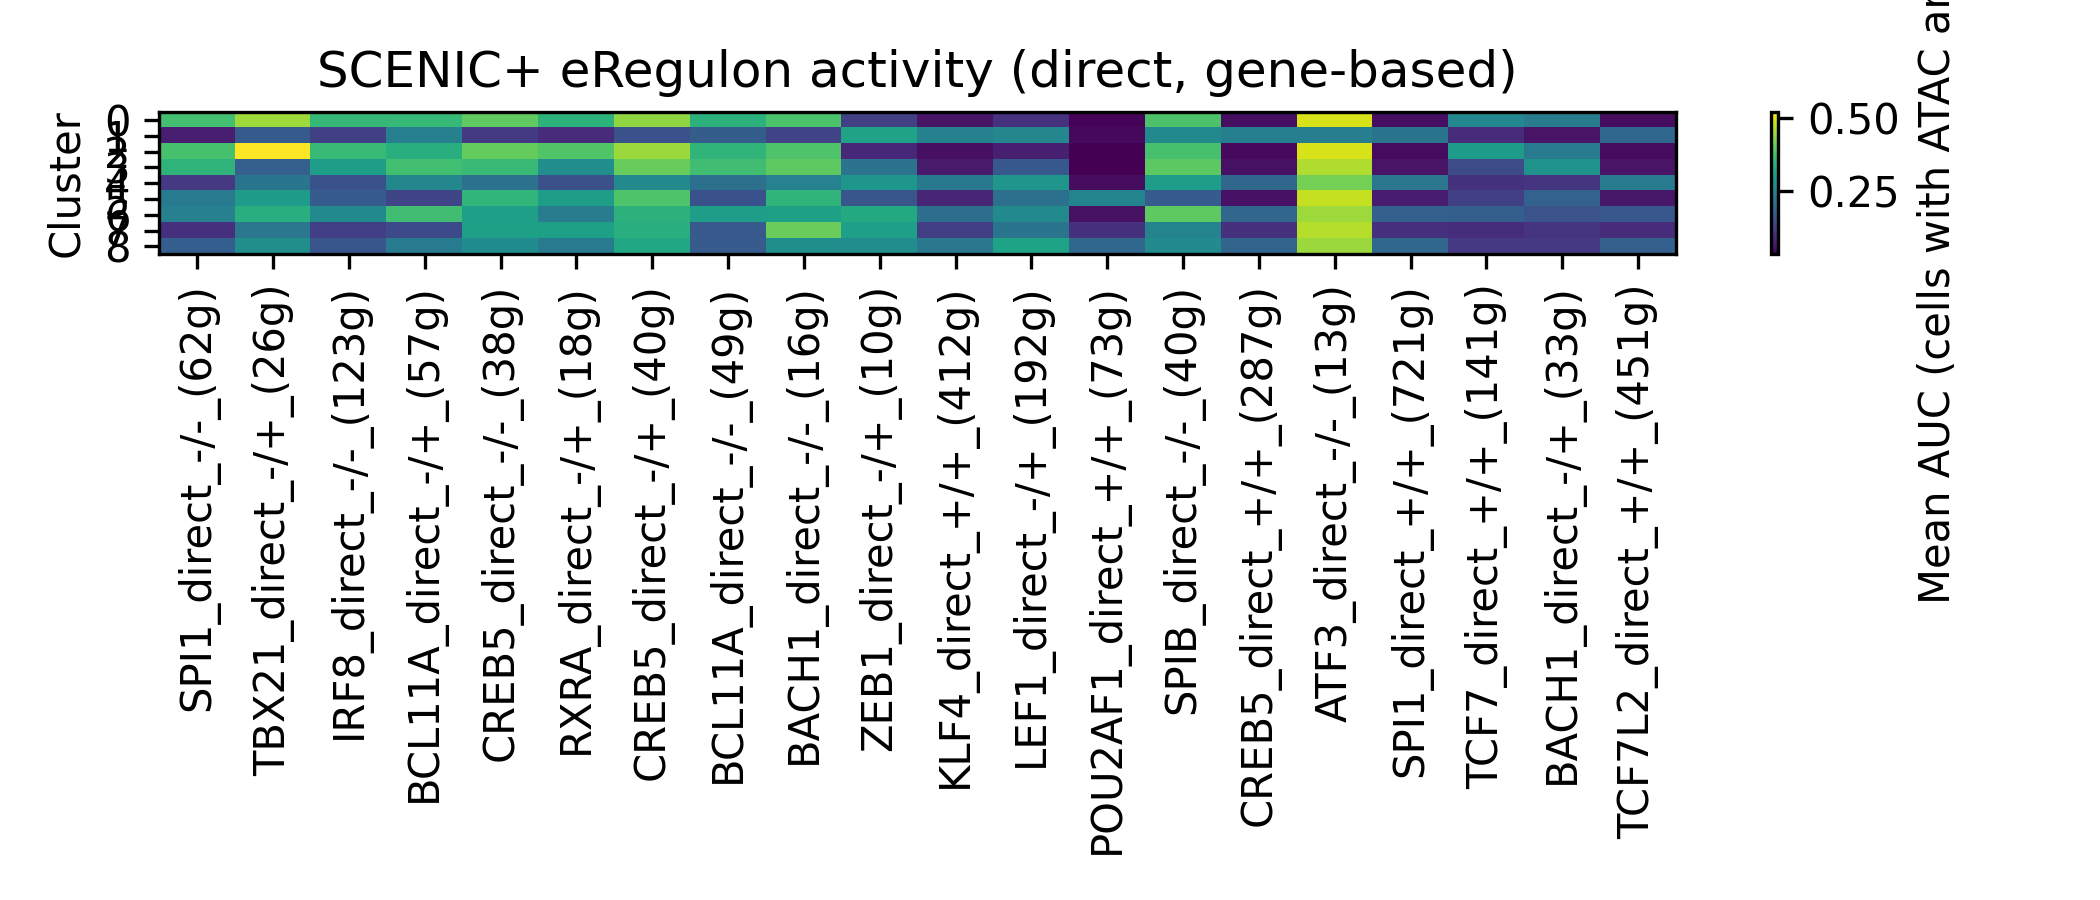
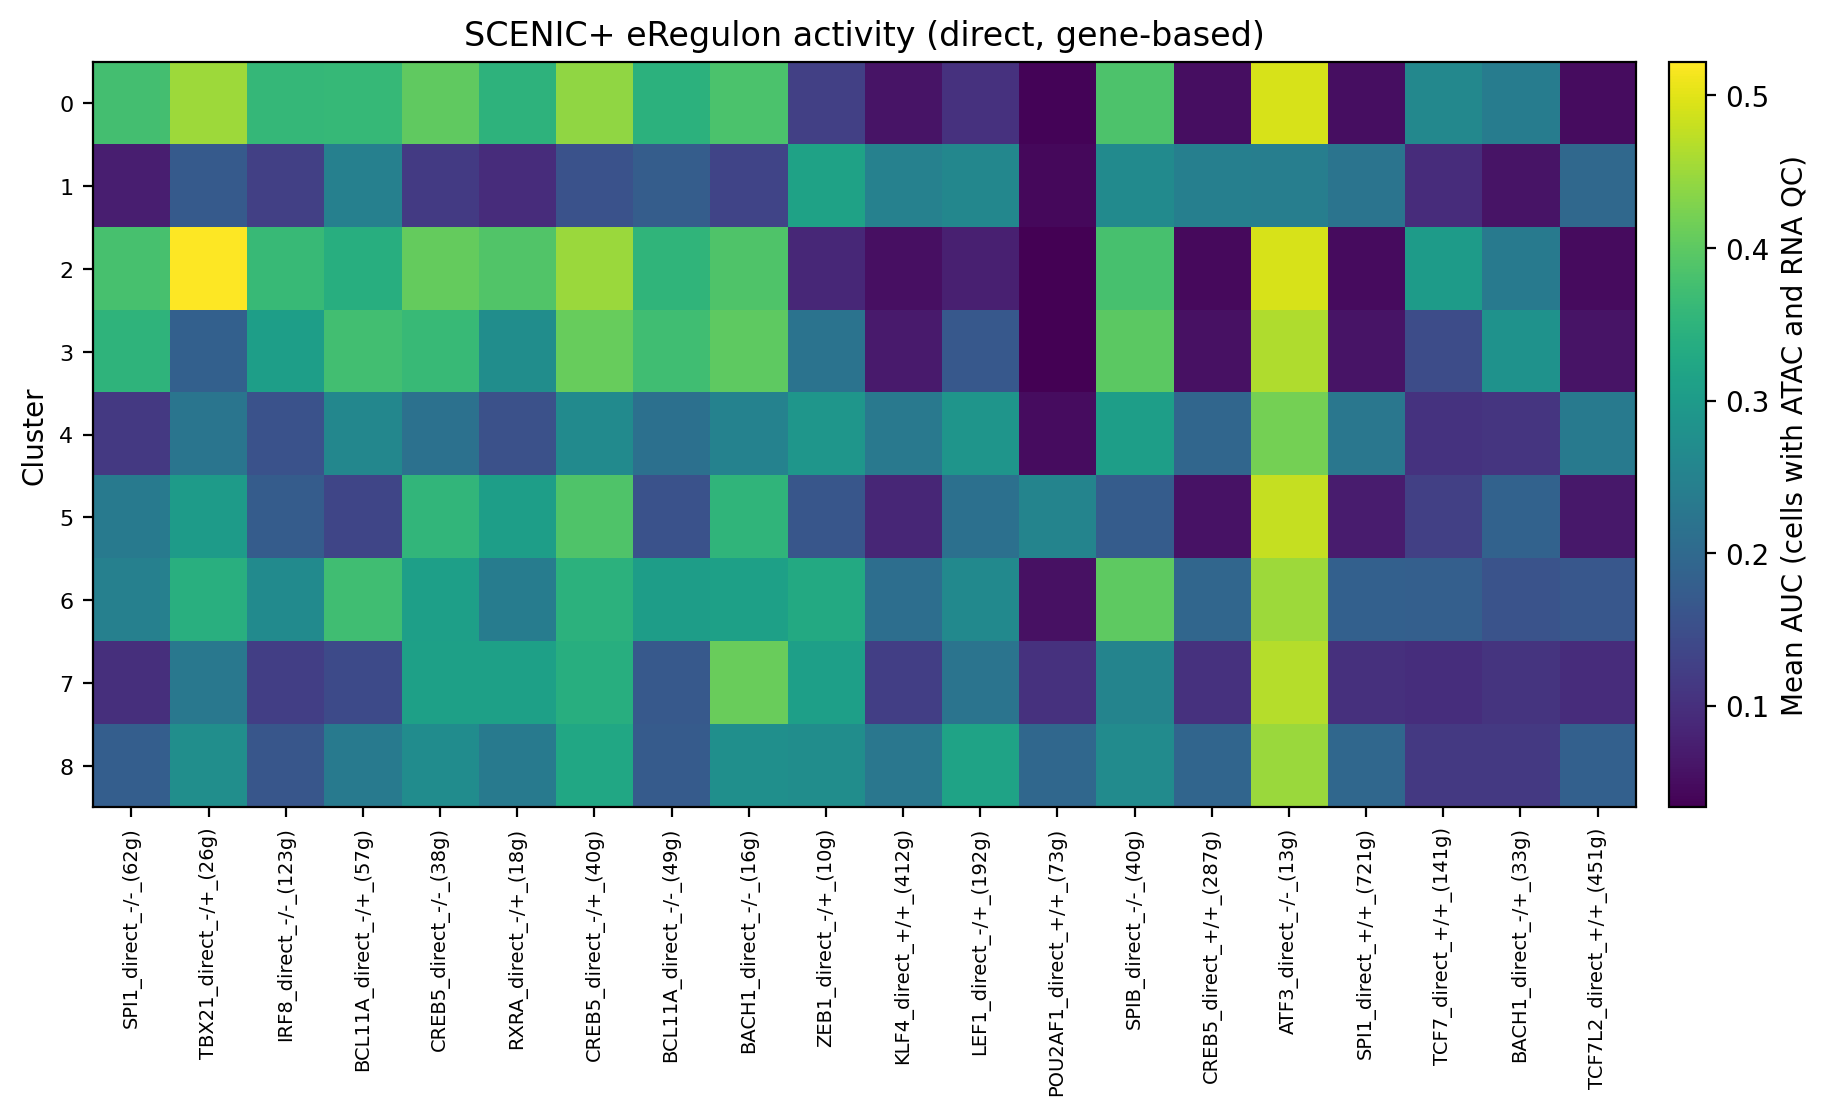
Re-render the example report heatmap with the fixed figure sizing
The committed figure came from the run that predates the sizing fix, so it showed
the squashed map with clipped colorbar label. Re-rendered from the same run's
activity_group_1.tsv with the same top-20-by-variance selection, and noted in the
example README.

diff --git a/examples/pbmc10k_subset/README.md b/examples/pbmc10k_subset/README.md
@@ -19,7 +19,10 @@ types, so the results are interpretable, with the caveats below.
   (3 models, 150 iterations) for run time. Launched with `run_scripts/run_subset.sbatch`
   on a SLURM cluster (40 CPUs, 128 GB); see `run_scripts/slurm-6506341.out`.
 - **Run recorded here:** SLURM job 6506341, 2026-09-21, about 2 hours wall clock.
-  Code as committed with these files.
+  Code as committed with these files, except that
+  `report/eregulon_activity_heatmap.png` was re-rendered afterwards from this run's own
+  `regulon/activity_group_1.tsv` (same data and selection) once the figure sizing was
+  fixed; the run itself produced a squashed version of it.
 
 ## Results in brief
 
